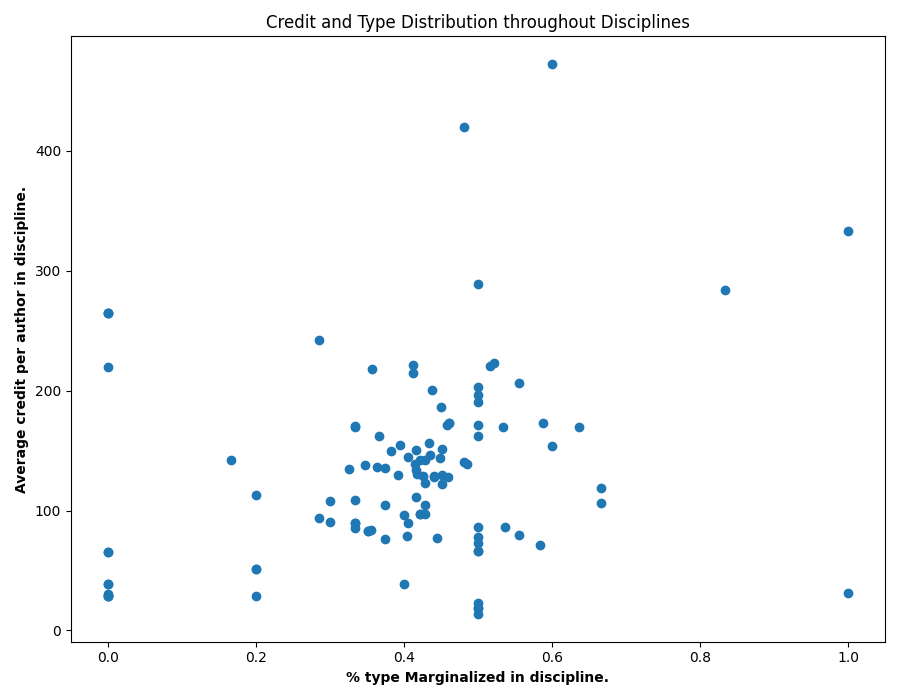
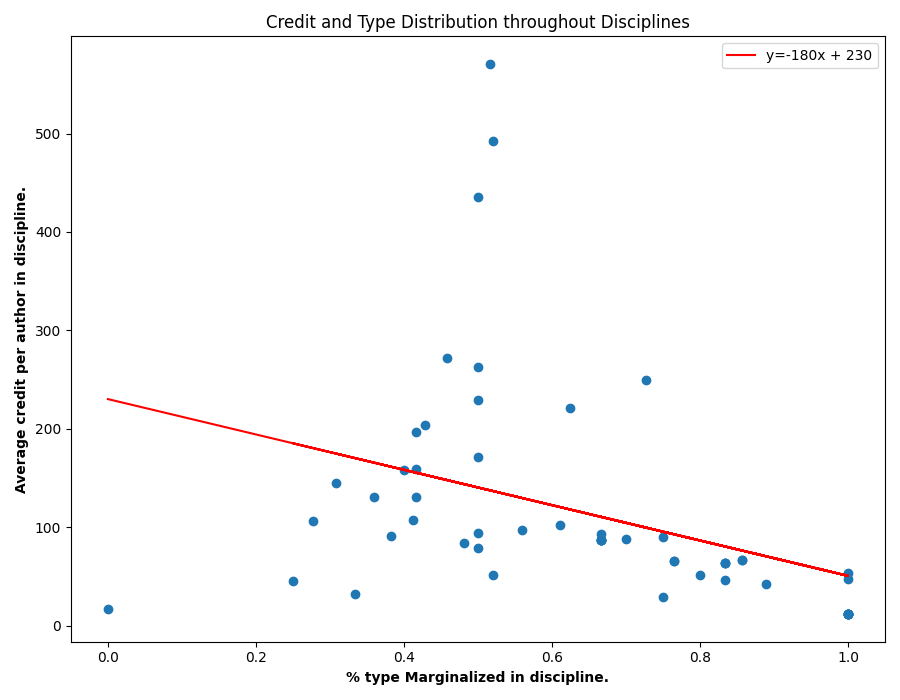
Added regression line

diff --git a/modules/Evolution.py b/modules/Evolution.py
@@ -603,7 +603,18 @@ class Evolution:
         axis.set_xlabel(f'% type {typeName} in discipline.', fontweight='bold')
         axis.set_title(f'''Credit and Type Distribution throughout Disciplines''')
         fig.tight_layout()
-        
+
+        # obtain m (slope) and b(intercept) of linear regression line
+        m, b = np.polyfit(xVals, yVals, 1)
+        # use red as color for regression line
+        axis.plot(xVals, [m*x+b for x in xVals], color='red', label=f'y={round(m)}x + {round(b)}')
+
+        # obtain regression line of degree 2
+        # a, m, b = np.polyfit(xVals, yVals, 2)
+        # use red as color for regression line
+        # axis.plot(xVals, [a*(x**2) + m*x + b for x in xVals], color='green', label=f'y={round(a)}x^2 + {round(m)}x + {round(b)}')
+
+        axis.legend()
         
         if saveToFile:
             fig.savefig(saveToFile)
